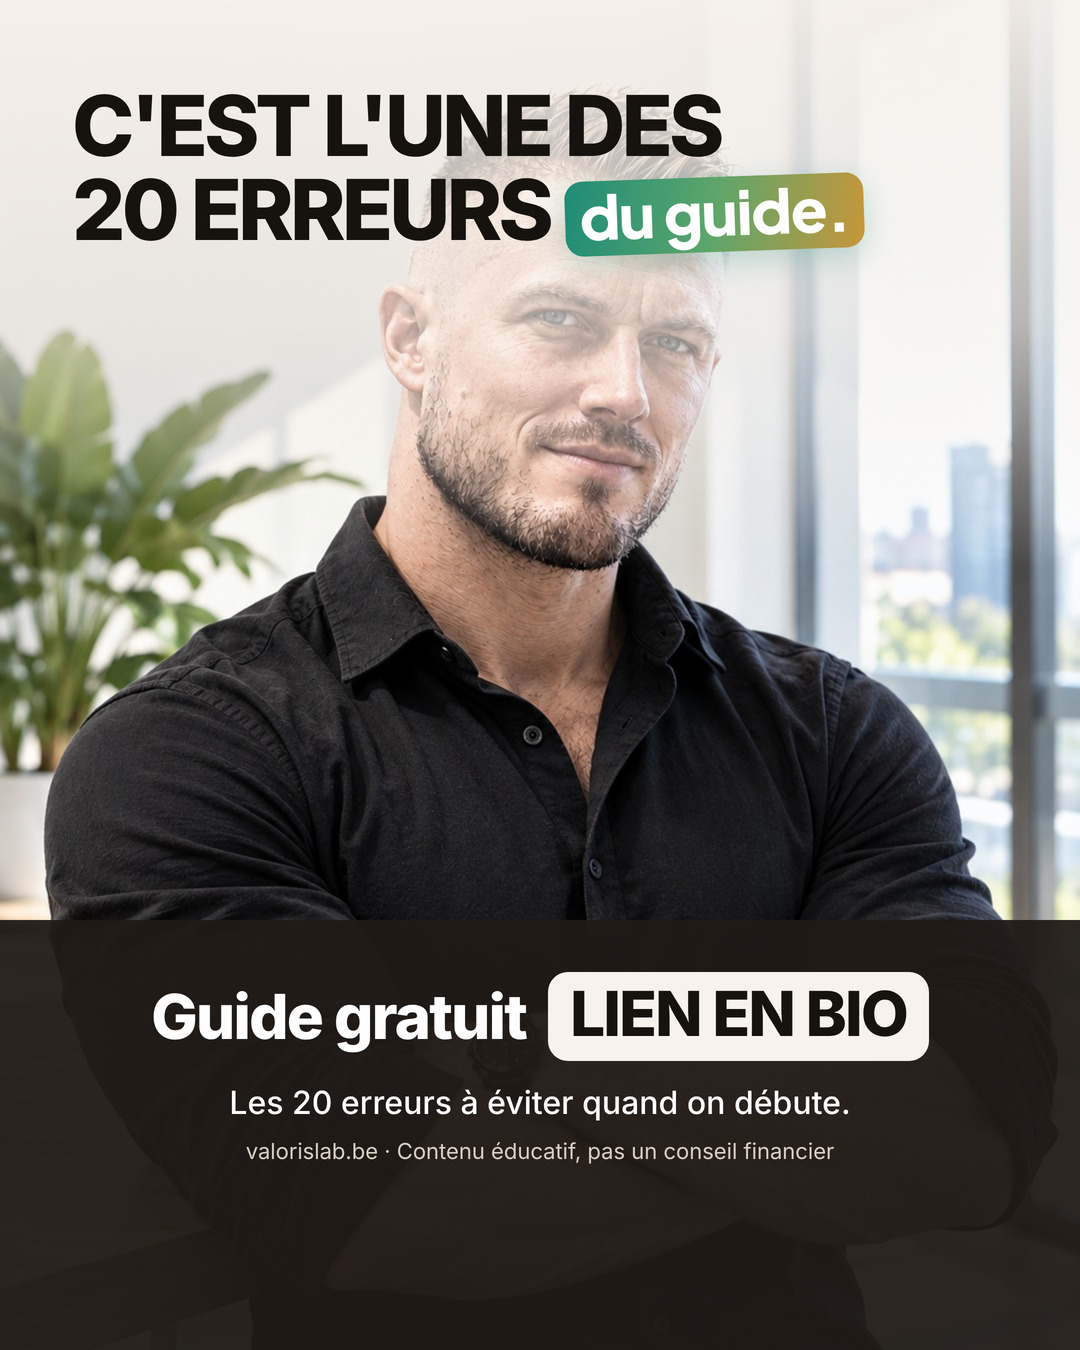
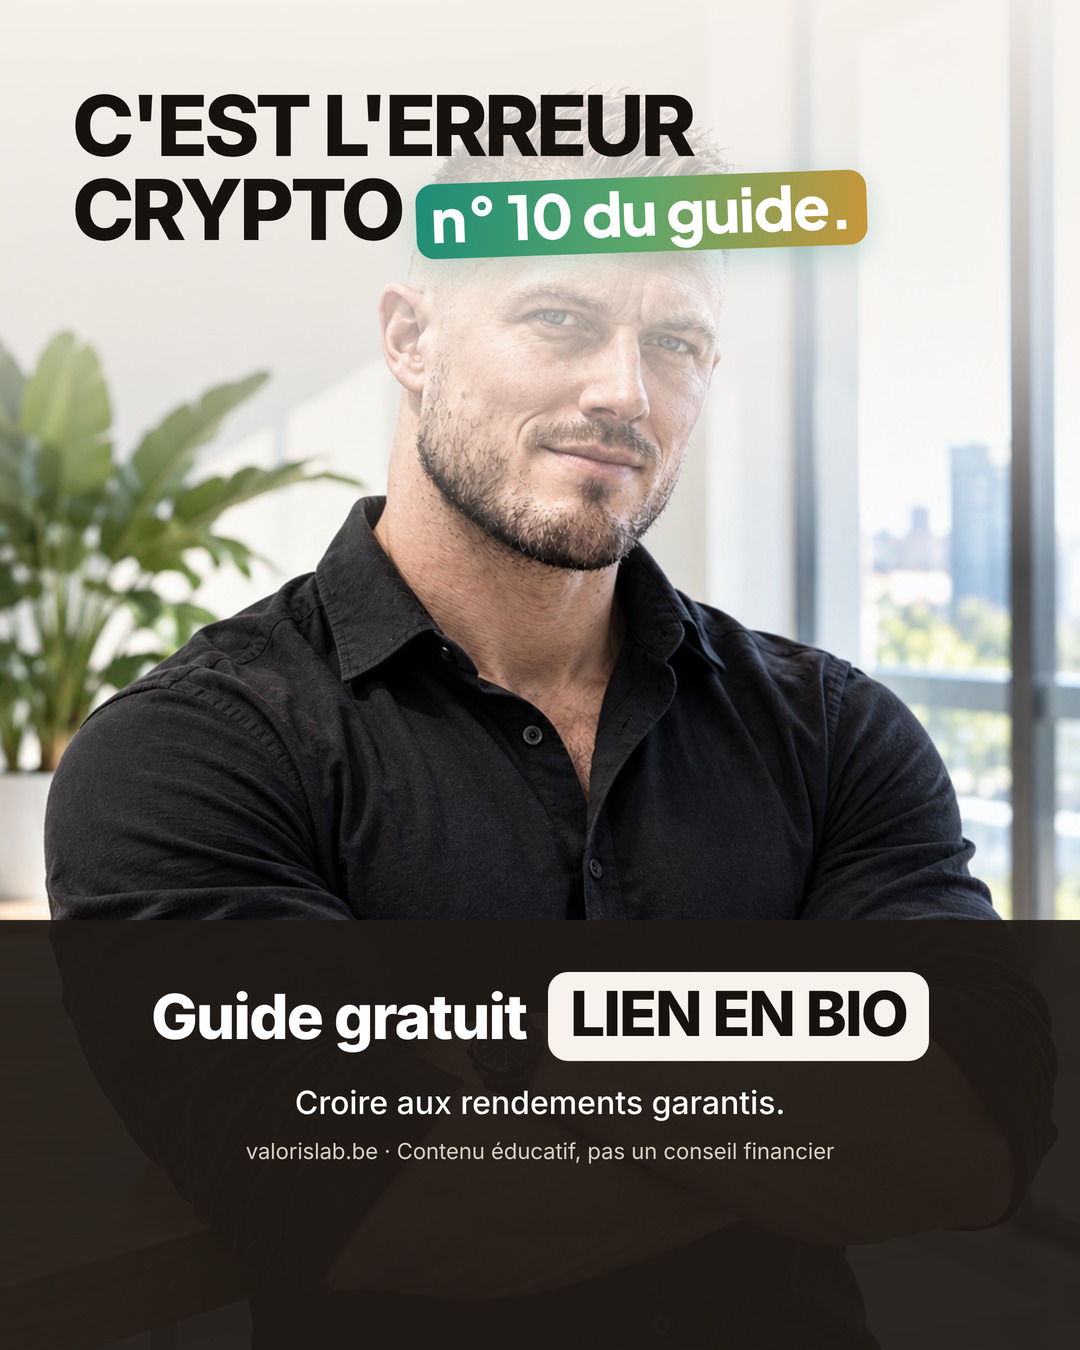
Guide relevé (20 erreurs + bonus finances), dernière slide W48 avec le numéro exact
Claude-Session: https://claude.ai/code/session_01TLJLY3cP7rDFrvFg3VEPEL

Changed region(s): [[0.0611, 0.0622, 0.825, 0.2178], [0.2139, 0.8089, 0.7944, 0.84]]

diff --git a/docs/STRATEGIE.md b/docs/STRATEGIE.md
@@ -29,7 +29,7 @@ Chaque semaine, la routine choisit **3 formats différents** parmi ces 8. Jamais
 ## Règles de choix des sujets (brief, section 3)
 1. Le sujet part d'une **situation vécue**, jamais d'une notion. « Tu viens de recevoir ta prime » plutôt que « Qu'est-ce que le précompte mobilier ».
 2. Le **calendrier** compte : primes de décembre, soldes, déclaration fiscale (mai-juin), rentrée, Black Friday, 13e mois, pécule de vacances.
-3. Chaque sujet est rattaché à **l'une des 20 erreurs du guide**. La dernière slide la nomme : « C'est l'erreur n° X du guide gratuit. » Numéros et intitulés : `state/guide-erreurs.json` (à remplir par Laurent ; tant qu'un numéro manque, la slide dit « C'est l'une des 20 erreurs du guide » et le rapport le signale : ne jamais inventer un numéro).
+3. Chaque sujet est rattaché à **l'une des 20 erreurs du guide**. La dernière slide la nomme : « C'est l'erreur n° X du guide gratuit. » Numéros et intitulés : `state/guide-erreurs.json` (relevés dans le guide de Laurent le 20/11/2026 : Bourse 1 à 10, Crypto 1 à 10, bonus finances personnelles). Formulation : « C'est l'erreur Bourse n° X du guide. », « C'est l'erreur Crypto n° X du guide. », et pour un sujet budget « l'étape X du guide gratuit » (bonus finances). Champ `guide_error: {chapter, n, title}`. Ne jamais inventer un numéro.
 4. **Interdit** : les sujets déjà publiés (contrôle `state/history.json`), et les sujets purement techniques sans enjeu personnel (TOB seule, domiciliation d'ETF seule, taxe Reynders seule). Ces notions peuvent apparaître à l'intérieur d'un format, jamais comme sujet principal.
 5. **Répartition par semaine** : 1 sujet Bourse, 1 sujet Crypto ou arnaque, 1 sujet budget du quotidien (champ `theme` : `bourse`, `crypto` ou `arnaque`, `budget`).
 
